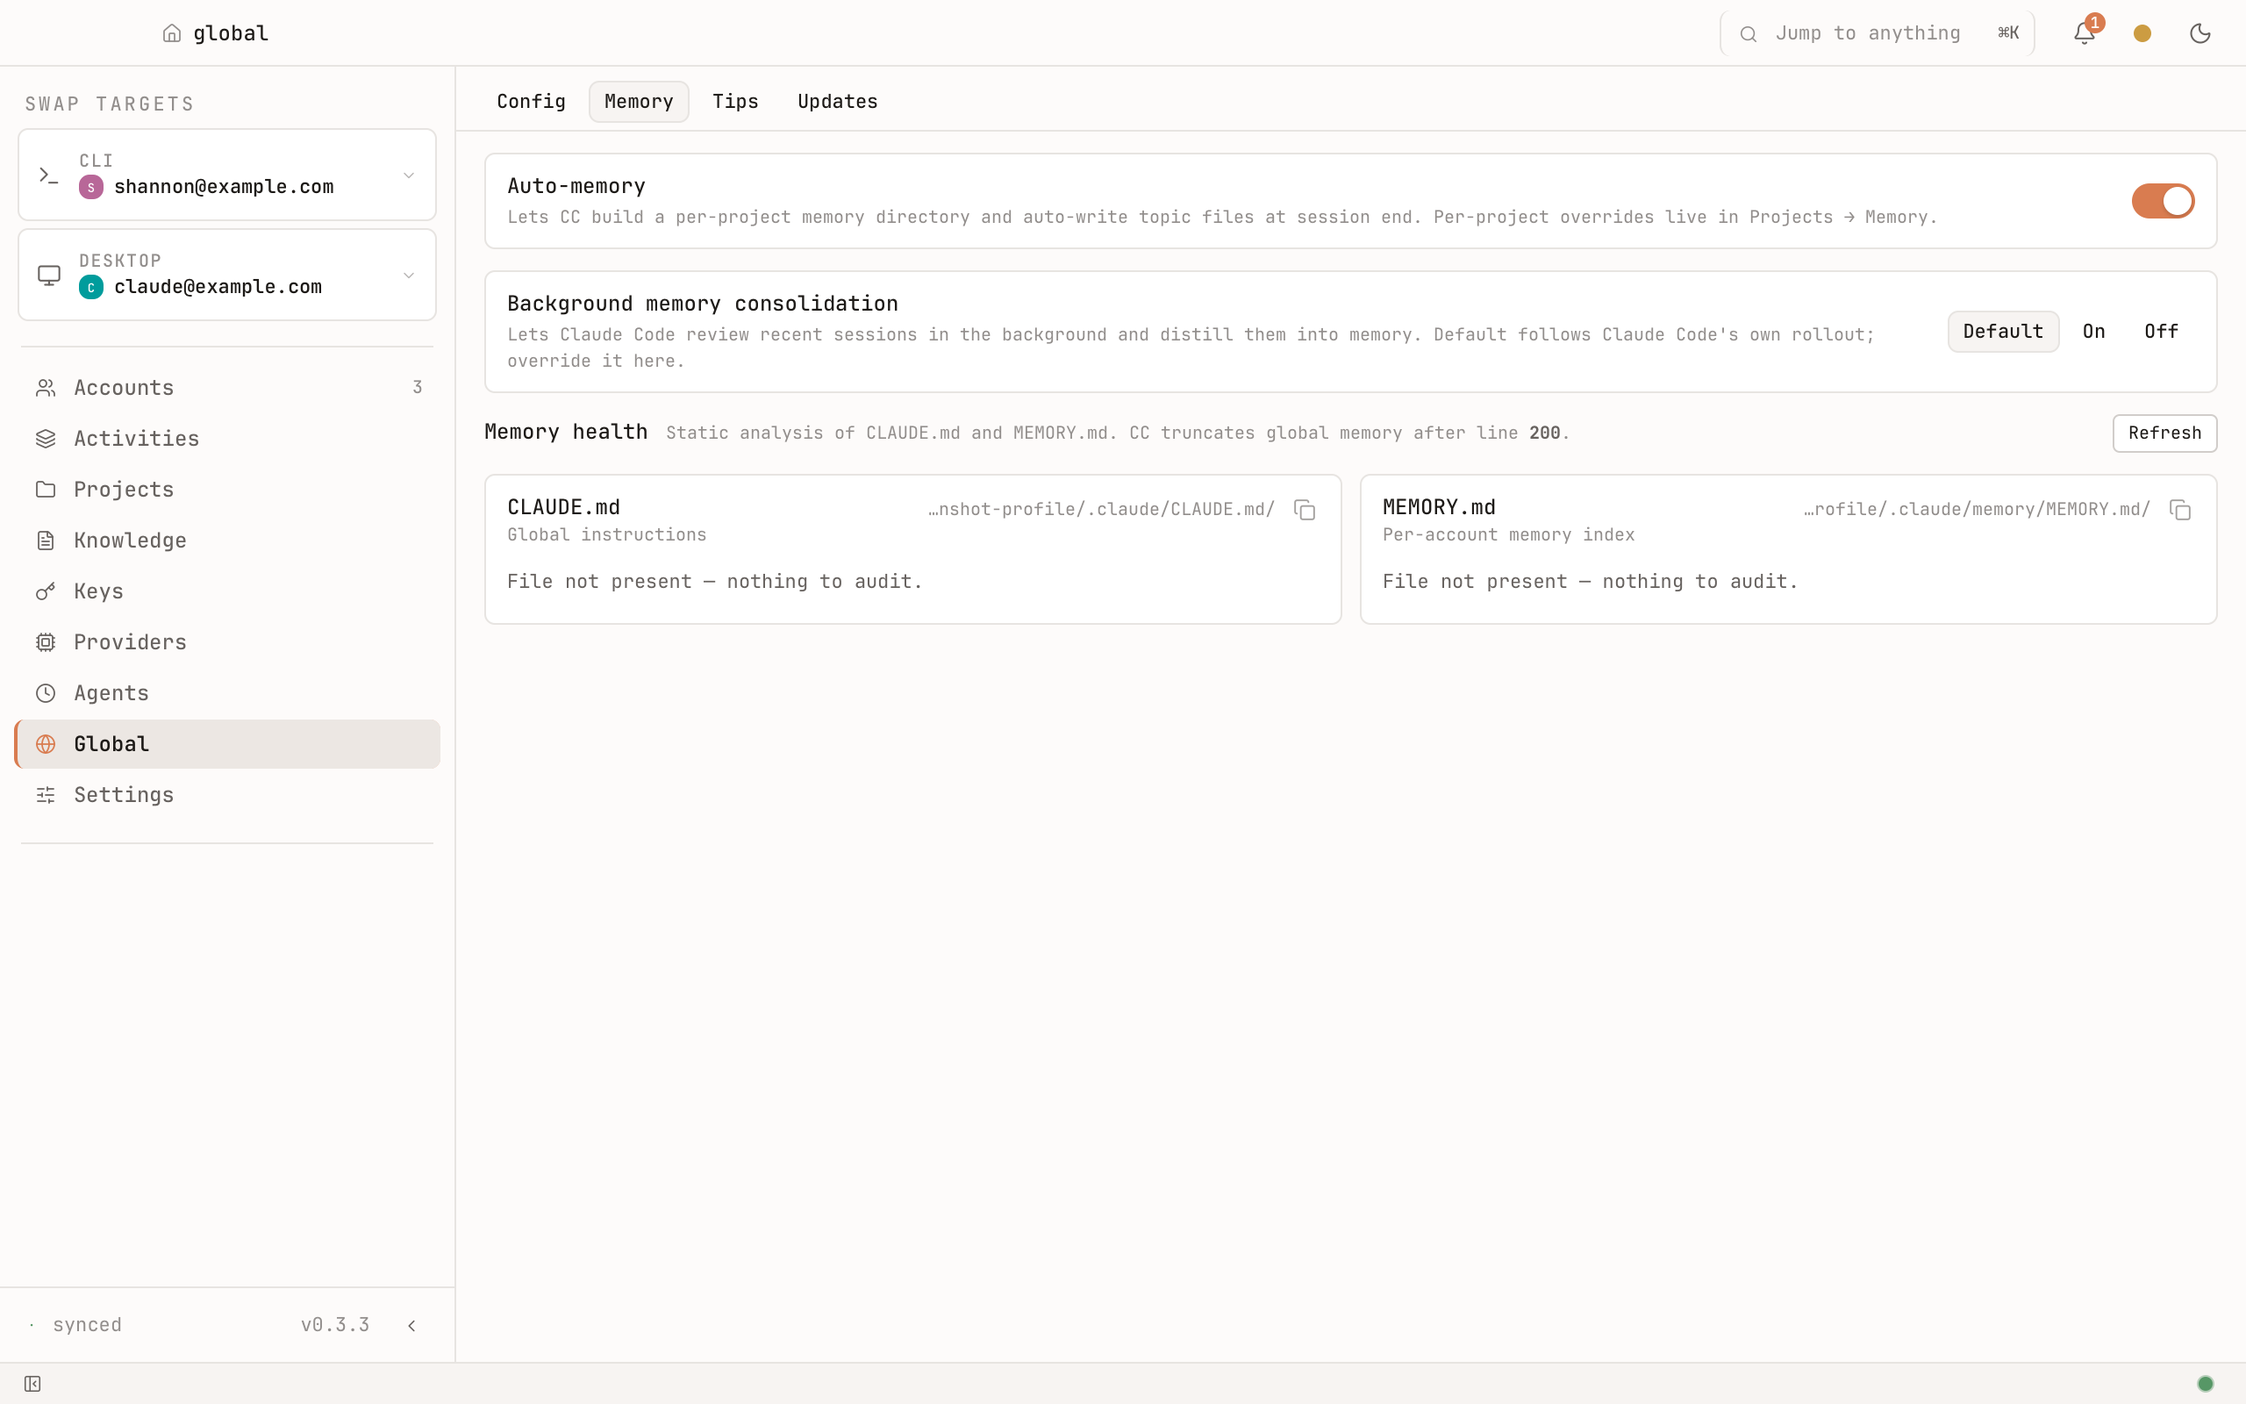
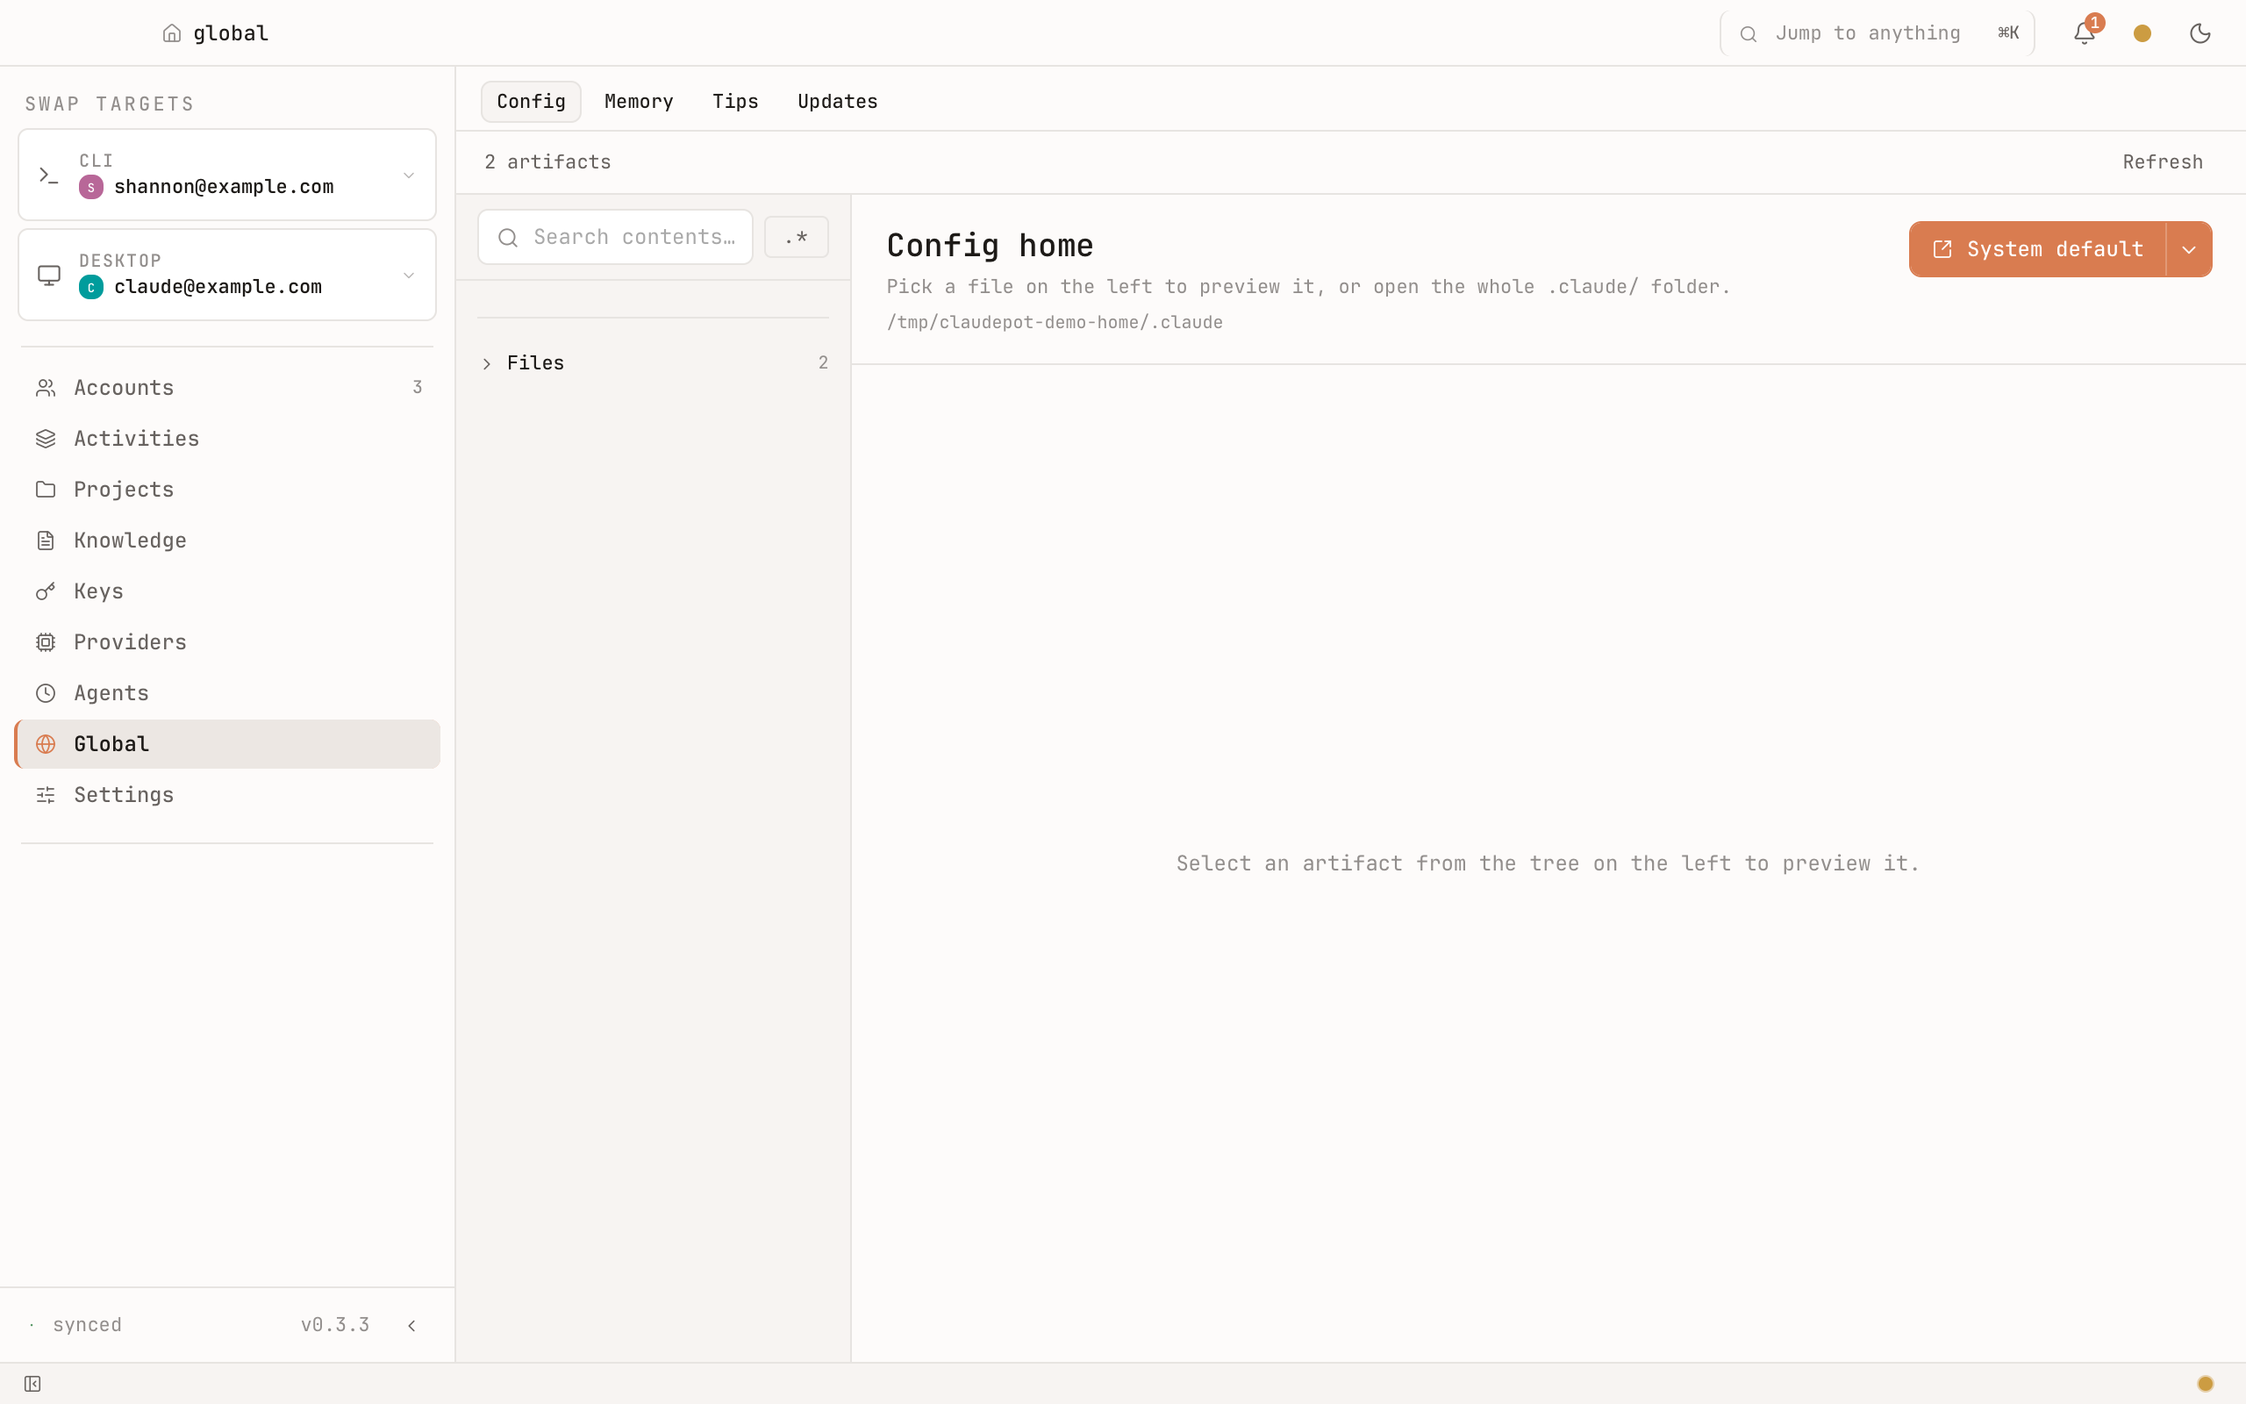
feat(screenshots): add the Knowledge capture, move the fixture out of the repo
Knowledge was the one shipped section with no screenshot anywhere —
not in assets/, not in README, not on the web. Every other feature
page carried exactly one image; features/memory carried none. It was
also the surface this arc changed most.

Capturing it surfaced two defects in the workflow itself:

- The fixture lived at <repo>/fixtures/screenshot-profile, and the app
  legitimately displays the paths it reads. Global -> Config rendered
  "Config home /Users/<you>/.../claudepot-app/fixtures/.../.claude" in
  full; Global -> Memory rendered the same prefix, saved from view only
  by the left-truncation that path-display.md mandates. Synthetic data
  cannot fix a leaking path. Default root is now
  /tmp/claudepot-demo-home: no username, no repo name, and it reads
  honestly as the demo profile it is.

- global.png settled on "Config", which is the tab BUTTON and is present
  whichever tab is active. The wait returned instantly and captured
  whatever sub-tab the app had remembered — the exact race settling
  exists to prevent. It now clicks Config and settles on "Config home",
  which only that tab's content contains.

Knowledge also needed data: an unseeded pane reads "No lessons yet",
documenting the empty state rather than the feature. The fixture seeds
6 accepted lessons and 3 proposals through claudepot-core's own writers
(create_memory / create_proposal) rather than raw SQL, so it cannot
produce a row shape production can never reach — create_proposal
[…]

diff --git a/crates/xtask/src/screenshot_fixture.rs b/crates/xtask/src/screenshot_fixture.rs
@@ -31,8 +31,16 @@
 //! One lever: the fixture is a **fake home directory**.
 //!
 //! ```text
-//! HOME=<fixture> pnpm tauri dev
+//! pnpm dev &                                    # vite, real HOME
+//! cargo build -p claudepot-tauri                # real HOME
+//! HOME=<fixture> ./target/debug/claudepot-tauri # app only
 //! ```
+//!
+//! The fake home goes to the **app**, not the build. `HOME=<fixture>
+//! pnpm tauri dev` looks tidier and fails: rustup reads its default
+//! toolchain from `$HOME/.rustup`, so the override takes the toolchain
+//! with it and `cargo metadata` dies before the app is ever compiled.
+//! (Corepack's cache moves too, prompting a pnpm re-download.)
 //!
 //! The obvious wiring — `CLAUDE_CONFIG_DIR` + `CLAUDEPOT_DATA_DIR` —
 //! was tried first and leaks. Those cover two of the three places the
@@ -73,6 +81,10 @@
 //! publishing the author's addresses.
 
 use anyhow::{Context, Result};
+use claudepot_core::session_index::SessionIndex;
+use claudepot_core::shared_memory::durable::{
+    self, CreatedByKind, MemoryKind, NewMemory, NewProposal, Scope,
+};
 use std::fs;
 use std::path::{Path, PathBuf};
 
@@ -96,6 +108,113 @@ const PROJECTS: &[(&str, u32)] = &[
     ("analytics", 3),
 ];
 
+/// Where the fake home lives — **outside the repo, on purpose**.
+///
+/// The first version put it at `<repo>/fixtures/screenshot-profile`,
+/// which leaks: the app legitimately displays the paths it reads, so
+/// Global → Config rendered
+/// `Config home /Users/<you>/…/claudepot-app/fixtures/…/.claude` in
+/// full, and Global → Memory rendered the same prefix truncated. A
+/// fixture whose own path embeds the author's home cannot produce a
+/// leak-free screenshot no matter what data is inside it.
+///
+/// `/tmp/claudepot-demo-home` contains no username, no repo name, and no
+/// directory structure of the author's — and it reads honestly to a
+/// documentation reader as what it is: a demo profile.
+fn default_root() -> PathBuf {
+    #[cfg(unix)]
+    {
+        // Not `env::temp_dir()`: on macOS that is the opaque per-user
+        // `/var/folders/<hash>/T/`, which looks like debris in a
+        // screenshot even though it leaks nothing.
+        PathBuf::from("/tmp/claudepot-demo-home")
+    }
+    #[cfg(not(unix))]
+    {
+        std::env::temp_dir().join("claudepot-demo-home")
+    }
+}
+
+/// Lessons a human already reviewed and kept — `review_state =
+/// 'accepted'`. Without them Knowledge screenshots as "No lessons yet",
+/// which documents the empty state rather than the feature.
+///
+/// The text is written to read like real engineering knowledge, because
+/// a screenshot of lorem ipsum teaches a reader nothing about what the
+/// pane is for. It describes the synthetic projects only.
+const LESSONS: &[(&str, MemoryKind, &str)] = &[
+    (
+        "api-gateway",
+        MemoryKind::Constraint,
+        "Rate-limit headers must be written before the response body starts \
+         streaming. Setting them from the after-response hook compiles and \
+         passes tests, then silently drops them under HTTP/2.",
+    ),
+    (
+        "api-gateway",
+        MemoryKind::Pattern,
+        "Every upstream call goes through the retry wrapper, never through \
+         the bare client. The wrapper is where the circuit breaker and the \
+         request-id propagation live.",
+    ),
+    (
+        "auth-service",
+        MemoryKind::Fact,
+        "Refresh tokens rotate on every use. A 401 from /profile means the \
+         stored blob is one generation behind — not that the account was \
+         signed out. Re-exchange before surfacing an error to the user.",
+    ),
+    (
+        "data-pipeline",
+        MemoryKind::Pattern,
+        "Batch jobs are idempotent by partition key: a retried run overwrites \
+         its partition rather than appending. A job that appends without a \
+         dedupe key will double-count on any retry.",
+    ),
+    (
+        "design-system",
+        MemoryKind::Preference,
+        "Design tokens are declared in exactly one file. A component that \
+         hardcodes a colour or a radius is a review finding, not a style \
+         choice — add the semantic token first, then reference it.",
+    ),
+    (
+        "infra-tools",
+        MemoryKind::Constraint,
+        "Never run the schema push command against production: it diffs the \
+         database against the schema files and drops anything it cannot see, \
+         including generated columns and triggers.",
+    ),
+];
+
+/// Distiller output awaiting human review — `review_state = 'proposed'`.
+/// Gives Knowledge → Review a non-empty queue, which is the whole point
+/// of that tab: claims arrive proposed and a human accepts or rejects.
+///
+/// `(project, content, directive, confidence)`
+const PROPOSALS: &[(&str, &str, i64)] = &[
+    (
+        "web-client",
+        "Suspense boundaries belong at the route level, not around individual \
+         data hooks. Wrapping each hook produced a cascade of spinners on \
+         first paint.",
+        72,
+    ),
+    (
+        "data-pipeline",
+        "The nightly export appears to assume UTC while the ingest timestamps \
+         are local, which would shift one hour of rows across the day \
+         boundary twice a year.",
+        58,
+    ),
+    (
+        "docs-site",
+        "Code samples in the guide drifted from the API after the v3 rename; \
+         the samples are not covered by any test that would have caught it.",
+        64,
+    ),
+];
+
 /// The fixture is a **fake home directory**, not a pair of env
 /// overrides.
 ///
@@ -107,10 +226,8 @@ const PROJECTS: &[(&str, u32)] = &[
 /// once, including ones not yet catalogued, and needs no production
 /// change. Verified: with `HOME` pointed here, a full-DOM scan for real
 /// addresses, paths and project names returns zero hits.
-pub fn build(repo: &Path, out: Option<&str>) -> Result<()> {
-    let root = out
-        .map(PathBuf::from)
-        .unwrap_or_else(|| repo.join("fixtures/screenshot-profile"));
+pub fn build(_repo: &Path, out: Option<&str>) -> Result<()> {
+    let root = out.map(PathBuf::from).unwrap_or_else(default_root);
     let claude = root.join(".claude");
     let claudepot = root.join(".claudepot");
 
@@ -130,6 +247,7 @@ pub fn build(repo: &Path, out: Option<&str>) -> Result<()> {
     let transcripts = write_transcripts(&claude)?;
     write_accounts(&claudepot)?;
     write_preferences(&claudepot)?;
+    let (accepted, proposed) = seed_knowledge(&claudepot)?;
 
     println!("screenshot fixture written to {}", root.display());
     println!(
@@ -138,13 +256,86 @@ pub fn build(repo: &Path, out: Option<&str>) -> Result<()> {
         transcripts,
         ACCOUNTS.len()
     );
+    println!("  {accepted} accepted lesson(s), {proposed} awaiting review");
     println!();
     println!("Launch the app against it with:");
-    println!("  HOME={} pnpm tauri dev", root.display());
+    println!("  pnpm dev &                                     # vite, real HOME");
+    println!("  cargo build -p claudepot-tauri                 # real HOME");
+    println!("  HOME={} ./target/debug/claudepot-tauri", root.display());
+    println!();
+    println!("The fake home goes to the APP, not the build: rustup reads its");
+    println!("default toolchain from $HOME/.rustup, so `HOME=… pnpm tauri dev`");
+    println!("kills cargo before the app compiles.");
     println!();
     println!("HOME — not CLAUDE_CONFIG_DIR/CLAUDEPOT_DATA_DIR — because");
     println!("Claude Desktop's directory has no override and leaked through.");
     Ok(())
+}
+
+/// Seed the Knowledge pane's lessons into `sessions.db`.
+///
+/// Written through `claudepot-core`'s own writers — `create_memory` for
+/// accepted rows, `create_proposal` for the review queue — rather than
+/// hand-rolled SQL. That is not a style preference: `create_proposal`
+/// inserts `review_state = 'proposed'` in a single statement precisely
+/// so no crash window can leave an agent-authored claim ACCEPTED. A
+/// fixture that INSERTed directly would be free to produce a row shape
+/// production can never reach, and the screenshot would document a state
+/// that does not exist.
+///
+/// Memories are keyed by `project_path` text and carry no FK to the
+/// session rows, so the app's first index refresh — which reaps rows for
+/// files it cannot find — leaves them alone.
+fn seed_knowledge(claudepot: &Path) -> Result<(usize, usize)> {
+    let idx = SessionIndex::open(&claudepot.join("sessions.db"))
+        .map_err(|e| anyhow::anyhow!("open sessions.db: {e}"))?;
+
+    for (project, kind, content) in LESSONS {
+        let path = project_path(project);
+        durable::create_memory(
+            &idx,
+            &NewMemory {
+                scope: Scope::Project,
+                project_path: Some(&path),
+                kind: *kind,
+                content,
+                created_by_kind: CreatedByKind::User,
+                created_by: "fixture",
+                confidence: None,
+            },
+        )
+        .map_err(|e| anyhow::anyhow!("seed lesson for {project}: {e}"))?;
+    }
+
+    for (project, content, confidence) in PROPOSALS {
+        let path = project_path(project);
+        durable::create_proposal(
+            &idx,
+            &NewProposal {
+                project_path: &path,
+                kind: MemoryKind::Pattern,
+                content,
+                // The one-line instruction a future session would act on;
+                // the Review queue renders it beside the claim.
+                directive: "Review this claim before relying on it.",
+                confidence: *confidence,
+                anchor_json: None,
+                origin_exchange_id: None,
+                origin_file_path: None,
+                created_by: "fixture-distiller",
+            },
+        )
+        .map_err(|e| anyhow::anyhow!("seed proposal for {project}: {e}"))?;
+    }
+
+    Ok((LESSONS.len(), PROPOSALS.len()))
+}
+
+/// The cwd `write_transcripts` records for a project. One helper so the
+/// lesson rows and the transcripts agree — a mismatch would render
+/// lessons attached to projects the Projects pane does not list.
+fn project_path(project: &str) -> String {
+    format!("/Users/dev/code/{project}")
 }
 
 /// Preferences that keep first-run chrome out of the screenshots.
@@ -189,7 +380,7 @@ fn write_cc_settings(claude: &Path) -> Result<()> {
 fn write_transcripts(claude: &Path) -> Result<usize> {
     let mut count = 0;
     for (i, (name, turns)) in PROJECTS.iter().enumerate() {
-        let cwd = format!("/Users/dev/code/{name}");
+        let cwd = project_path(name);
         let slug = cwd.replace(['/', '.'], "-");
         let dir = claude.join("projects").join(&slug);
         fs::create_dir_all(&dir)?;

diff --git a/crates/xtask/src/verify_docs.rs b/crates/xtask/src/verify_docs.rs
@@ -51,6 +51,13 @@ const SCREENSHOTS: &[(&str, &[&str])] = &[
         &["src/sections/ProjectsSection.tsx", "src/sections/projects"],
     ),
     (
+        "memory.png",
+        &[
+            "src/sections/SharedMemorySection.tsx",
+            "src/sections/knowledge",
+        ],
+    ),
+    (
         "keys.png",
         &["src/sections/KeysSection.tsx", "src/sections/keys"],
     ),

diff --git a/AGENTS.md b/AGENTS.md
@@ -554,12 +554,15 @@ Full post-mortem of the v0.1.13–0.1.19 Dock-blur arc is in
 
 ## Documentation screenshots
 
-Three commands, no manual capture, no PII scrubbing:
+No manual capture, no PII scrubbing:
 
 ```bash
-cargo xtask screenshot-fixture                       # synthetic profile
-HOME=$PWD/fixtures/screenshot-profile pnpm tauri dev # app, in another shell
-pnpm screenshots                                     # capture all 8
+cargo xtask screenshot-fixture                  # synthetic profile
+pnpm dev &                                      # vite, REAL home
+cargo build -p claudepot-tauri                  # REAL home
+HOME=/tmp/claudepot-demo-home \
+  ./target/debug/claudepot-tauri &              # app only
+pnpm screenshots                                # capture all 9
 ```
 
 The fixture is a **fake `HOME`**, not a pair of env overrides.
@@ -567,6 +570,17 @@ The fixture is a **fake `HOME`**, not a pair of env overrides.
 places the app reads — Claude Desktop's directory resolves through
 `dirs::data_dir()` with no override and leaked a real account through
 the header. `HOME` closes every home-relative path at once.
+
+Two things that look like fussiness and are not:
+
+- **The fake home goes to the app, not the build.** `HOME=… pnpm tauri
+  dev` reads better and fails — rustup keeps its default toolchain in
+  `$HOME/.rustup`, so the override takes the toolchain with it and
+  `cargo metadata` dies before anything compiles.
+- **The fixture lives outside the repo** (`/tmp/claudepot-demo-home`).
+  The app displays the paths it reads, so an in-repo fixture put
+  `/Users/<you>/…/claudepot-app/fixtures/…` on screen in Global →
+  Config. No amount of synthetic *data* fixes a leaking *path*.
 
 **Never mask real data to take a screenshot.** It was tried and it is
 architecturally wrong: the vocabulary is unbounded and only visible as

diff --git a/README.md b/README.md
@@ -115,6 +115,8 @@ transcripts. The same data is exposed to agents through
 `claudepot mcp memory-server`; the registry id remains `shared-memory` for
 localStorage compatibility.
 
+![Knowledge tab](assets/screenshots/memory.png)
+
 **Keys** — All your API keys and OAuth tokens, in one inventory. Stored in the OS keychain (macOS Keychain / Windows Credential Manager / Linux Secret Service). Copy with self-clearing clipboard — the value wipes itself after 30 seconds.
 
 ![Keys tab](assets/screenshots/keys.png)
